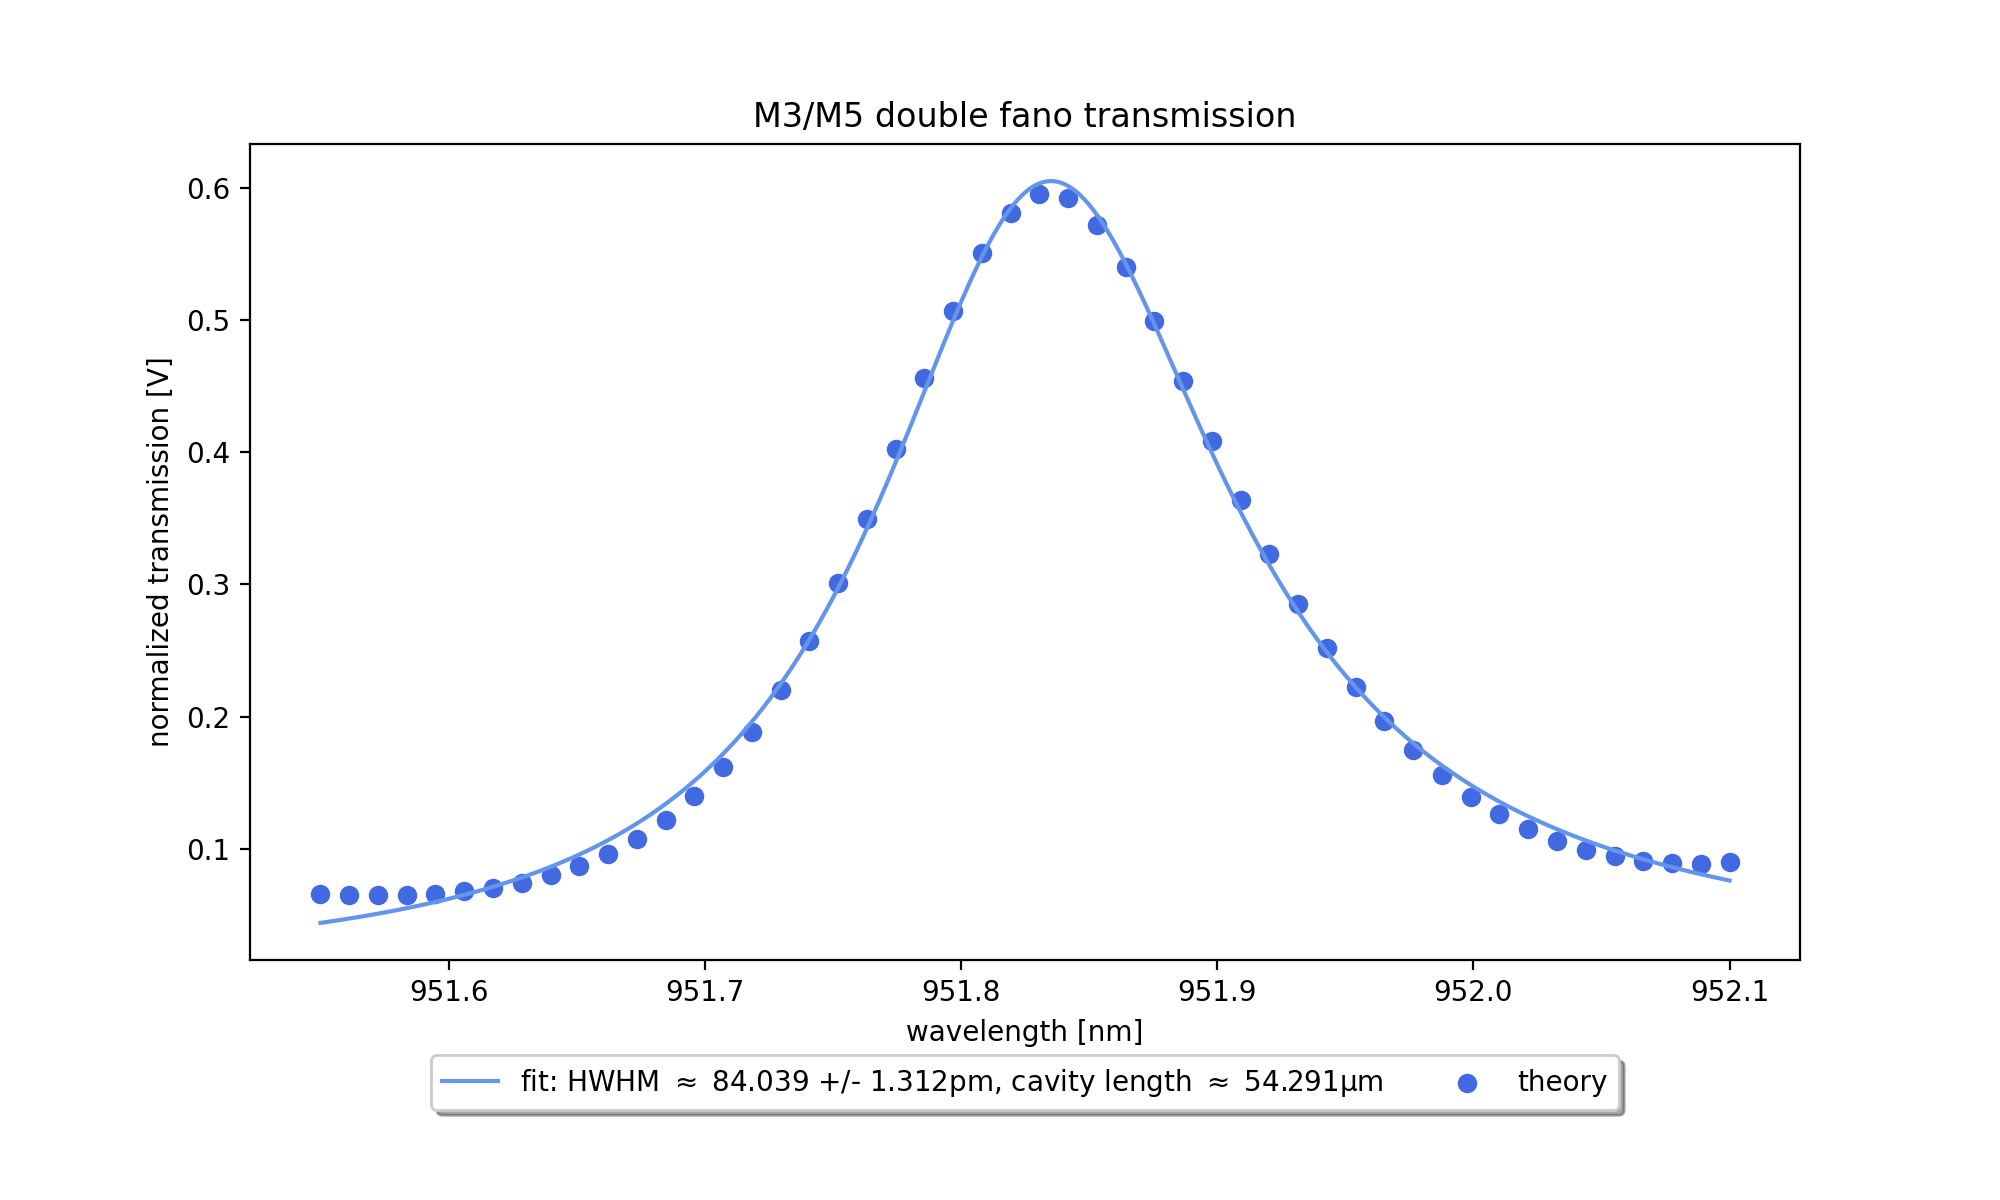
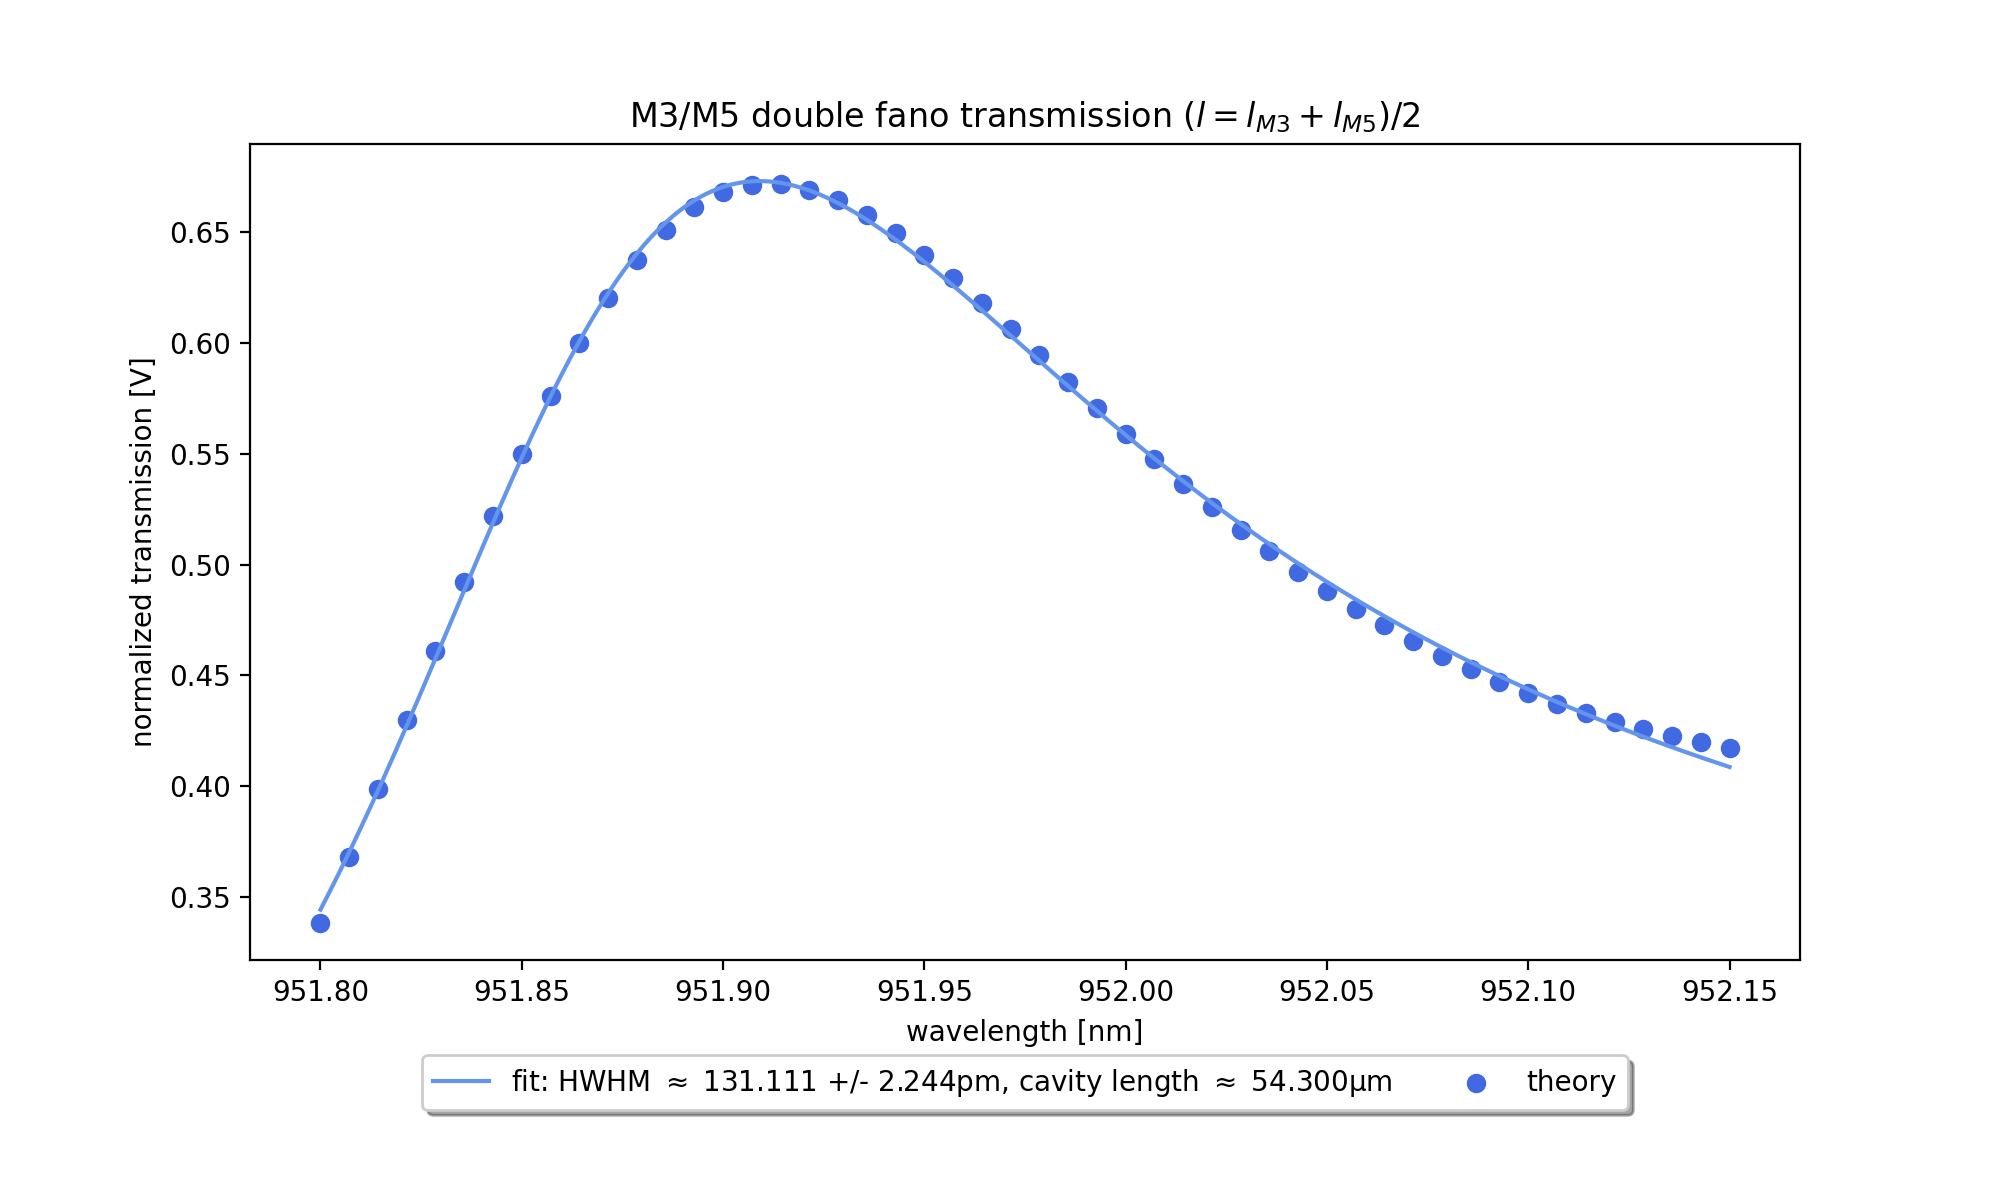
-

diff --git a/cavity_linewidth.py b/cavity_linewidth.py
@@ -113,7 +113,7 @@ print("tds: ", td_1, td_2)
 print("γs:  ", γ_1, γ_2)
 print("αs:  ", α_1, α_2)
 
-λt = np.array([951.650])
+λt = np.array([951.750])
 
 t_M3_trans = model(λt, *params1)
 t_M5_trans = model(λt, *params2)
@@ -121,8 +121,8 @@ t_M5_trans = model(λt, *params2)
 r_M3_trans = theoretical_reflection_values(params1, λt)[0][0]
 r_M5_trans = theoretical_reflection_values(params2, λt)[0][0]
 
-λ_asymmetry_1 = λ1_1-λ0_1
-λ_asymmetry_2 = λ1_2-λ0_2
+#λ_asymmetry_1 = λ1_1-λ0_1
+#λ_asymmetry_2 = λ1_2-λ0_2
 #λs = np.linspace(M3.data[:,0][0], M3.data[:,0][-1], 1000)
 
 
@@ -141,7 +141,7 @@ r_M5_trans = theoretical_reflection_values(params2, λt)[0][0]
 
 ## resonance wavelength [nm -> m]
 #λres = (λ0_1*1e-9 + λ0_2*1e-9)/2 #955.572e-9
-λres = 951.650e-9
+λres = 951.750e-9
 print("resonant wavelength: ", λres)
 ## length of cavity [μm -> m]
 l = np.linspace(15,800,10000)*1e-6
@@ -150,9 +150,11 @@ l = np.linspace(15,800,10000)*1e-6
 Ls = (1 - r_M3_trans) + (1 - r_M5_trans)
 #print("cavity losses at trans. wavelength:", L[0])
 ## width of guided mode resonance [nm -> m]
-γλ = (γ_1*1e-9 + γ_2*1e-9)/2#0.485*1e-9
+γλ = (γ_1*1e-9 + γ_2*1e-9)/2
 ## direct (off-resonance) reflectivity (from norm. trans/ref fit)
-rd = (1-td_2)*(1-td_2)#np.sqrt(0.57)*np.sqrt(0.575)
+r1 = (1-np.sqrt(td_1))
+r2 = (1-np.sqrt(td_2))
+rd = (r1 + r2 - 2*r1*r2)**2 / (1 - r1*r2)**2 ## the minimum reflectivity is assumed to be the case for the direct/off-resonance case.
 print("rd: ", rd)
 #print(rd)
 ## Grating transmission at resonance
@@ -160,7 +162,7 @@ Tg = t_M3_trans#0.049
 ## Broadband mirror transmission at resonance
 Tm = t_M5_trans#0.049
 
-λres1, L1, Tg1, Tm1 = calc_params(λs, 951.630, 951.630 + λ_asymmetry_1, 951.870, 951.870 + λ_asymmetry_2)
+#λres1, L1, Tg1, Tm1 = calc_params(λs, 951.630, 951.630 + λ_asymmetry_1, 951.870, 951.870 + λ_asymmetry_2)
 #λres2, L2, Tg2, Tm2 = calc_params(λs, 951.570, 951.570 + λ_asymmetry_1, 951.950, 951.950 + λ_asymmetry_2)
 #λres3, L3, Tg3, Tm3 = calc_params(λs, 951.630, 951.630 + λ_asymmetry_1, 951.950, 951.950 + λ_asymmetry_2)
 
@@ -226,10 +228,10 @@ def double_fano(l: int, λres: float, L: float, γλ: float, rd: float, Tg: floa
 #sim_lws = np.array([81.548, 72.691, 67.455, 50.371, 35.678, 76.742, 58.431, 65.281, 66.436, 68.854, 88.797, 81.862, 76.420, 70.640, 74.150])*1e-12
 #sim_lw_errs = np.array([0.378, 0.290, 0.246, 0.131, 0.063, 0.328, 0.179, 0.228, 0.237, 0.257, 0.475, 0.382, 0.329, 0.278, 0.302])*1e-12
 
-### NOTE: all errors are found as errors of the fit only! ###
+### NOTE: only peaks which were succesfully fitted to the general double fano model was used (highly diverging line widths were excluded)
 
 err25 = stdev([82.505,140.995])
-err56 = stdev([92.978,131.930,50.198,127.991])
+err56 = stdev([92.978,131.930,127.991])
 err75 = stdev([129.352,113.418,98.231,124.844])
 err90 = stdev([118.522,127.537,123.208,143.508,144.028,156.626,150.353,128.158])
 err113 = stdev([121.088,119.276,128.153,134.716,138.369,143.275])
@@ -240,7 +242,7 @@ err452 = stdev([55.656,56.452,54.841,57.093])
 err755 = stdev([23.575,30.555,27.897,31.242,30.806,37.414,34.551,30.757,31.109,31.167])
 
 lw25 = mean([82.505,140.995])
-lw56 = mean([92.978,131.930,50.198,127.991])
+lw56 = mean([92.978,131.930,127.991])
 lw75 = mean([129.352,113.418,98.231,124.844])
 lw90 = mean([118.522,127.537,123.208,143.508,144.028,156.626,150.353,128.158])
 lw113 = mean([121.088,119.276,128.153,134.716,138.369,143.275])
@@ -250,13 +252,16 @@ lw323 = mean([60.452,52.197,60.835,64.421,68.542])
 lw452 = mean([55.656,56.452,54.841,57.093])
 lw755 = mean([23.575,30.555,27.897,31.242,30.806,37.414,34.551,30.757,31.109,31.167])
 
-#lws_0226 = np.array([82.505,92.978,98.231,118.522,119.276,75.386,81.864,52.197,54.841,27.897])*1e-12
 lws_0226 = np.array([lw25,lw56,lw75,lw90,lw113,lw181,lw226,lw323,lw452,lw755])*1e-12
 errs_0226 = np.array([err25,err56,err75,err90,err113,err181,err226,err323,err452,err755])*1e-12 ## standard deviation of all measurements (within reason)
 ls_0226 = np.array([24.612, 54.105, 67.149, 88.825, 106.709, 155.497, 196.168, 299.106, 412.991, 718.787])*1e-6 ## found from fsr scan and fit
 
-sim_ls = np.array([24.784, 54.291, 67.111, 155.616, 299.309, 718.816])*1e-6
-sim_lws = np.array([99.942, 84.039, 84.487, 61.223, 41.117, 27.169])*1e-12
+lws_0226_good = np.array([lw25,lw56,lw75,lw181,lw323,lw755])*1e-12
+errs_0226_good = np.array([err25, err56, err75, err181, err323, err755])*1e-12 ## standard deviation of all measurements (within reason)
+ls_0226_good = np.array([24.612, 54.105, 67.149, 155.497, 299.106, 718.787])*1e-6 ## found from fsr scan and fit
+
+sim_ls = np.array([24.791, 54.300, 67.626, 155.691, 299.436, 718.774])*1e-6
+sim_lws = np.array([148.912, 131.111, 123.677, 94.894, 62.615, 30.120])*1e-12
 
 plt.figure(figsize=(10,6))
 
@@ -264,10 +269,12 @@ plt.figure(figsize=(10,6))
 #plt.plot(l*1e6,lw_mirror(l,λres2,L2,Tg2,Tm2)*1e12, label="broadband cavity")
 #plt.plot(l*1e6,lw_mirror(l,λres3,L3,Tg3,Tm3)*1e12, label="broadband cavity")
 plt.plot(l*1e6,lw_mirror(l,λres,Ls,Tg,Tm)*1e12, label="broadband cavity")
-plt.errorbar(ls_0226*1e6, lws_0226*1e12, errs_0226*1e12, fmt=".", capsize=3, label="HWHM (measured on 26/2)")
+plt.errorbar(ls_0226*1e6, lws_0226*1e12, errs_0226*1e12, fmt=".", capsize=3, color="orange", label="HWHM (measured on 26/2)")
+plt.errorbar(ls_0226_good*1e6, lws_0226_good*1e12, errs_0226_good*1e12, fmt=".", color="magenta", capsize=3, label="HWHM (measured on 26/2)")
 
 plt.plot(l*1e6,lw_fano(l,λres,Ls,γλ,rd,Tg,Tm)*1e12, label="single fano cavity")
-plt.plot(l*1e6,double_fano(l,λres,Ls,γλ,rd,Tg,Tm)*1e12, label= "double fano cavity")
+plt.plot(l*1e6,double_fano(l,λres,Ls,γλ,rd,Tg,Tm)*1e12, label= "asymmetric double fano cavity")
+plt.plot(l*1e6,double_fano(l,λres,Ls,γλ,rd,Tg,Tg)*1e12, label= "symmetric double fano cavity")
 #plt.plot(l*1e6,double_fano(l,λres1,L1,γλ,rd,Tg1,Tm1)*1e12, label= "double fano cavity")
 #plt.plot(l*1e6,double_fano(l,λres2,L2,γλ,rd,Tg2,Tm2)*1e12, label = "double fano cavity (adjusted detuning)")
 #plt.plot(l*1e6,double_fano(l,λres3,L3,γλ,rd,Tg3,Tm3)*1e12, label = "double fano cavity (adjusted detuning)")
@@ -278,7 +285,7 @@ plt.plot(l*1e6,double_fano(l,λres,Ls,γλ,rd,Tg,Tm)*1e12, label= "double fano c
 #plt.errorbar(ls_0220*1e6, lws_0220*1e12, err_0220*1e12, xerr=ls_0220_err*1e6, fmt=".", capsize=3, color="magenta", label="HWHM (measured on 20/2)")
 #plt.errorbar(ls_0225*1e6, lws_0225*1e12, err_0225*1e12, xerr=ls_0225_err*1e6, fmt=".", capsize=3, color="darkblue", label="HWHM (measured on 25/2)")
 
-plt.scatter(sim_ls*1e6, sim_lws*1e12, marker=".", color="firebrick", label="HWHM (simulated)")
+plt.scatter(sim_ls*1e6, sim_lws*1e12, marker=".", color="limegreen", label="HWHM (simulated)", zorder=7)
 #plt.plot(λs, rs_M3, "ro")
 #plt.plot(λs, rs_M5, "bo")
 plt.title("HWHM as a function of cavity length")

diff --git a/fano_theory.py b/fano_theory.py
@@ -23,17 +23,17 @@ params2 = M5.lossy_fit([952,952,0.6,1,0.1])
 
 params1[0] = 951.635833090383
 params1[1] = 951.7808553381275
-#params1[2] = 0.8112460470002542 
-#params1[3] = 0.5127336548338813
-#params1[4] = 9.089548008029833e-07 
+params1[2] = 0.8112460470002542 
+params1[3] = 0.5127336548338813
+params1[4] = 9.089548008029833e-07 
 
 ###951.630 + λ_asymmetry_1
 
 params2[0] = 952.0676067923679
 params2[1] = 952.1863127407705
-#params2[2] = 0.8206794339330804
-#params2[3] = 0.6375760748025334
-#params2[4] = 2.4859509672570234e-06
+params2[2] = 0.8206794339330804
+params2[3] = 0.6375760748025334
+params2[4] = 2.4859509672570234e-06
 
 ### 951.870 + λ_asymmetry_2
 
@@ -59,7 +59,7 @@ data[:,1] = [(d/pi)/(n/pi_) for d,pi,n,pi_ in zip(data[:,1], PI_data[:,1], norm[
 #λs = np.linspace(M3.data[:,0][0], M3.data[:,0][-1], 100)
 #λs = np.linspace(data[:,0][0], data[:,0][-1], 1000)
 #λs = np.linspace(951.650, 951.950, 100)
-λs = np.linspace(951.600, 952.050, 50)
+λs = np.linspace(951.800, 952.150, 50)
 #λs = np.linspace(910, 980, 10000)
 #λs = np.linspace(951.68, 951.90, 200)
 
@@ -896,6 +896,23 @@ def linewidth_length_plot(params1: list, params2: list, λs: np.array, intracavi
 
 #length_mid = (double_cavity_length(params1, params2, λs, lmin=lmin)*0.5 + double_cavity_length(params2, params1, λs, lmin=lmin)*0.5)
 #Ts_mid = dual_fano_transmission(params1, params2, length_mid, λs, loss_factor=0.05)
+M3 = np.loadtxt("/Users/mikkelodeon/optomechanics/Double fano cavity/M3+M5/data/20250226/grating trans. spectra/M3/M3_trans.txt")
+M5 = np.loadtxt("/Users/mikkelodeon/optomechanics/Double fano cavity/M3+M5/data/20250226/grating trans. spectra/M5/M5_trans_2.txt")
+M3_PI = np.loadtxt("/Users/mikkelodeon/optomechanics/Double fano cavity/M3+M5/data/20250226/grating trans. spectra/M3/M3_trans_PI.txt")
+M5_PI = np.loadtxt("/Users/mikkelodeon/optomechanics/Double fano cavity/M3+M5/data/20250226/grating trans. spectra/M5/M5_trans_2_PI.txt")
+norm = np.loadtxt("/Users/mikkelodeon/optomechanics/Double fano cavity/M3+M5/data/20250226/normalization/grating_trans.txt")
+norm_PI = np.loadtxt("/Users/mikkelodeon/optomechanics/Double fano cavity/M3+M5/data/20250226/normalization/grating_trans_PI.txt")
+
+M3[:,1] = [(d/pi)/(n/pi_) for d,pi,n,pi_ in zip(M3[:,1], M3_PI[:,1], norm[:,1], norm_PI[:,1])] ## norm. with respect to trans. w/o a cavity. 
+M5[:,1] = [(d/pi)/(n/pi_) for d,pi,n,pi_ in zip(M5[:,1], M5_PI[:,1], norm[:,1], norm_PI[:,1])] ## norm. with respect to trans. w/o a cavity. 
+
+#λs = np.linspace(M3[:,0][0], M3[:,0][-1], 50)
+#λs_fit = np.linspace(M3[:,0][0], M3[:,0][-1], 10000)
+
+p0 = [952,952,0.6,1,0.1]
+params1, pcov1 = curve_fit(model, M3[:,0], M3[:,1], p0=p0)
+params2, pcov2 = curve_fit(model, M5[:,0], M5[:,1], p0=p0)
+
 
 lmin = 24.6
 length = (double_cavity_length(params1, params2, λs, lmin=lmin)*0.5 + double_cavity_length(params2, params1, λs, lmin=lmin)*0.5)
@@ -906,10 +923,10 @@ p0 = [0, 0, 0, 951.7, 100e-3]
 bounds = [[0,0,-np.inf,0,0],[np.inf,np.inf,np.inf,np.inf,np.inf]]
 #p0 = [951.7,951.7,0.6,0.1,1e-6]
 
-popt, pcov = curve_fit(fit_model, λs, Ts, bounds=bounds, p0=p0, maxfev=100000)
+popt, pcov = curve_fit(fit_model, λs, Ts, p0=p0, bounds=bounds, maxfev=100000)
 err = np.sqrt(np.diag(pcov))
 lw_err = round(err[4]*1e3,3)
-lw = round(popt[4]*1e3,3)
+lw = np.abs(round(popt[4]*1e3,3))
 legend = [lw, lw_err, round(length*1e-3,3)]
 print("lw error: ", lw_err)
 print(popt)
@@ -923,7 +940,7 @@ plt.plot(xs, fit_model(xs, *popt), color="cornflowerblue", label="fit: HWHM $\\a
 #plt.plot(λs, Ts_M5, color="seagreen", linestyle="-.", label="theory, $l = l_{M5}$")
 #plt.plot(λs, Ts_mid, color="royalblue", linestyle="--", label="theory, $l = (l_{M3} + l_{M5})/2$")
 #plt.scatter(data[:,0], data[:,1], marker='.', color="maroon", label="data", zorder=4)
-plt.title("M3/M5 double fano transmission") 
+plt.title("M3/M5 double fano transmission $(l = l_{M3} + l_{M5})/2$") 
 plt.xlabel("wavelength [nm]")
 plt.ylabel("normalized transmission [V]")
 plt.legend(loc='upper center', bbox_to_anchor=(0.5, -0.1), fancybox=True, shadow=True, ncol=2)
